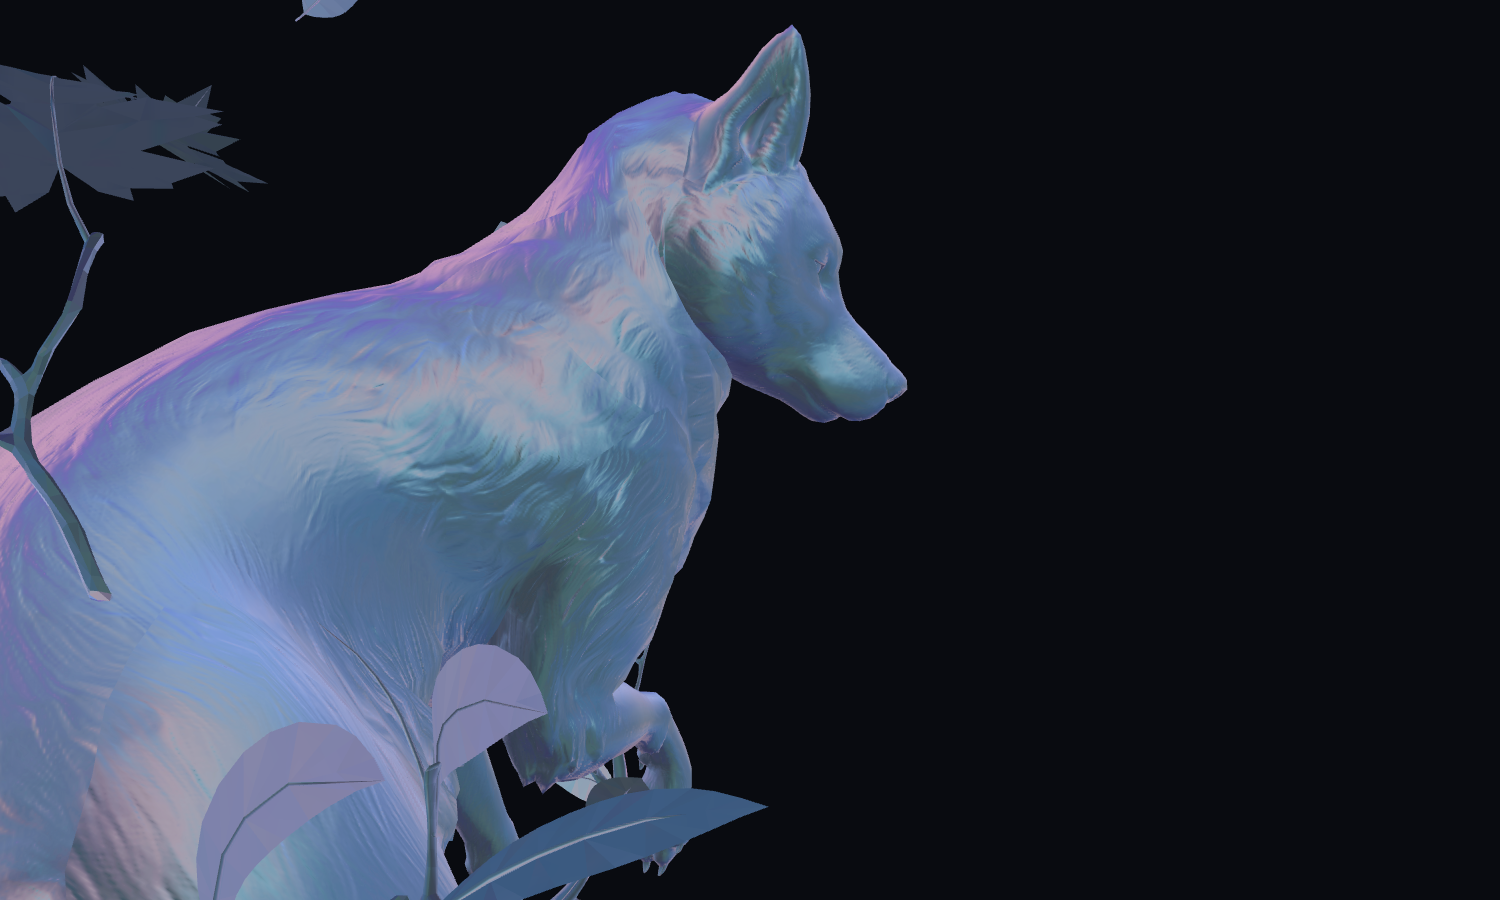
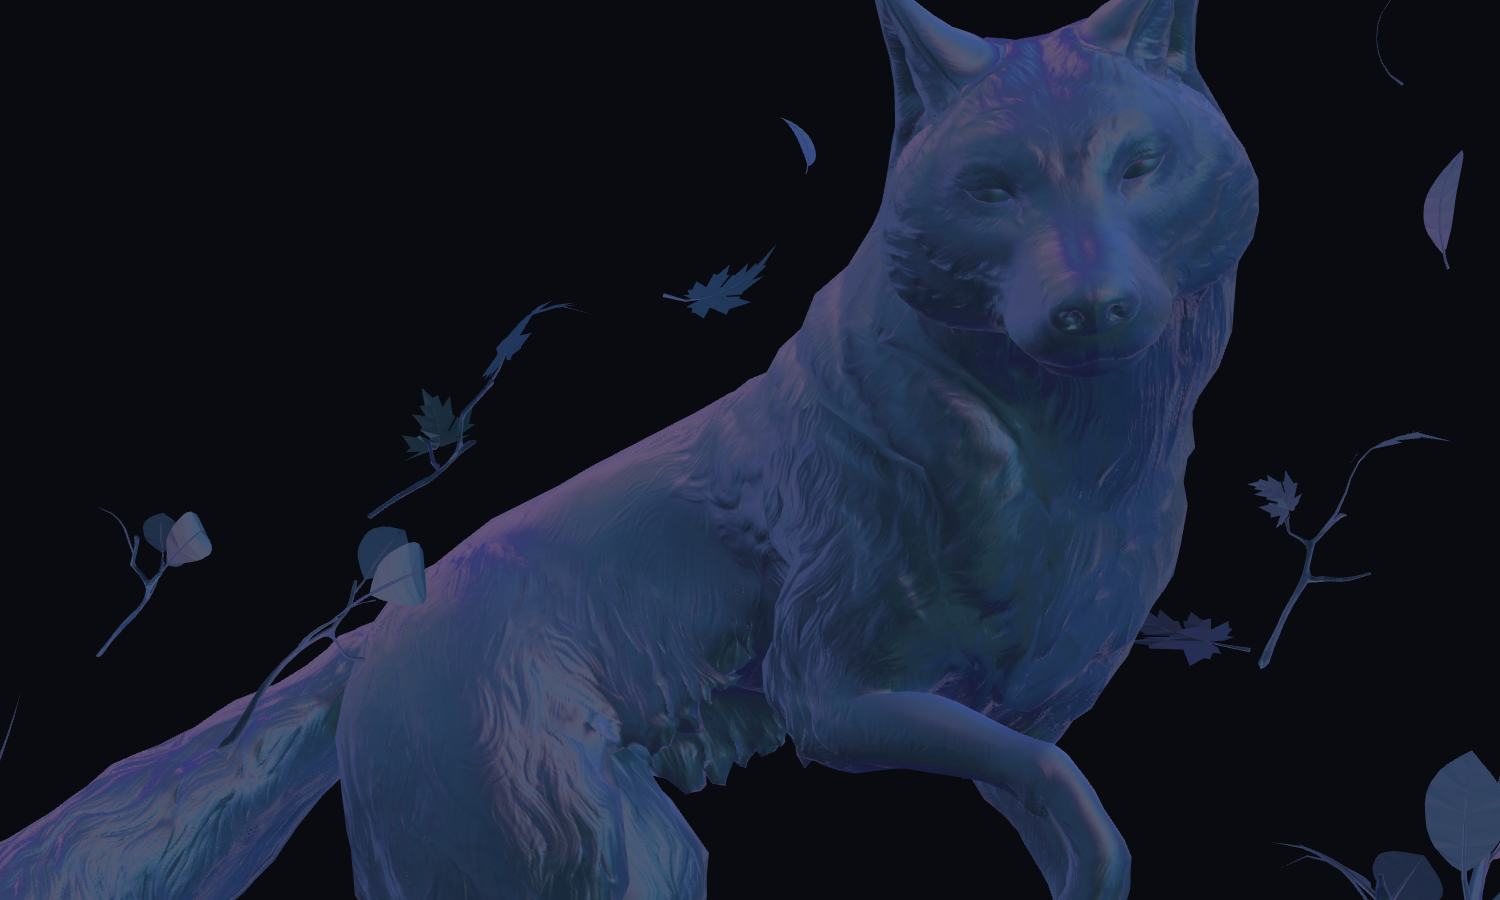
fix(ps-008): calibrate exact eye-level wolf rotation, framing, and matcap lighting

diff --git a/plans/ps-008-creative-webgl/step1-3d-core/standalone-dog.html b/plans/ps-008-creative-webgl/step1-3d-core/standalone-dog.html
@@ -2,7 +2,7 @@
 <html lang="en">
 <head>
   <meta charset="UTF-8">
-  <title>Dogstudio 3D Core - Step 1 Ground Truth Rebuild</title>
+  <title>Dogstudio 3D Core - Step 1 Ground Truth (Exact Pose & Lighting Matched)</title>
   <style>
     body {
       margin: 0;
@@ -43,11 +43,14 @@
 
       const scene = new THREE.Scene();
 
-      // Camera: exact FOV 60
-      const camera = new THREE.PerspectiveCamera(60, width / height, 1, 50);
-      camera.position.set(0, 0, 10);
+      // Camera: exact match framing
+      const camera = new THREE.PerspectiveCamera(35, width / height, 0.01, 1000);
+      camera.position.set(0.2, 1.6, 22.0);
       scene.add(camera);
-      camera.lookAt(new THREE.Vector3(0, 0, 0));
+
+      // Target head center
+      const target = new THREE.Vector3(1.1, 1.8, 0);
+      camera.lookAt(target);
 
       const textureLoader = new THREE.TextureLoader();
       const loadTex = (url) => {
@@ -70,6 +73,7 @@
       await new Promise(r => { img.onload = r; });
       const cellW = img.width / 10;
       const cellH = img.height / 2;
+      // Index 1: row 0, col 1
       mctx.drawImage(img, cellW * 1, 0, cellW, cellH, 0, 0, 256, 256);
       const singleMatcapTex = new THREE.CanvasTexture(matcapCanvas);
 
@@ -96,7 +100,8 @@
             child.material = new THREE.MeshMatcapMaterial({
               matcap: singleMatcapTex,
               normalMap: isLeaf ? branchesNormals : dogNormals,
-              normalScale: new THREE.Vector2(0.35, 0.35),
+              normalScale: new THREE.Vector2(0.55, 0.55),
+              color: new THREE.Color(0x3a4866), // Tint dark navy blue to match Dogstudio mood lighting!
               skinning: !!child.isSkinnedMesh
             });
           }
@@ -104,10 +109,10 @@
 
         dogContainer.add(model);
 
-        // Frame the wolf head in center-right
-        dogContainer.position.set(-0.5, -2.2, 0);
-        dogContainer.rotation.y = 2.45; // ~140 degrees (Head faces viewer & left)
-        dogContainer.rotation.x = 0.05;
+        // Turn dog body so head looks towards viewer (slight left angle)
+        dogContainer.rotation.y = 0.62; // ~35 degrees
+        dogContainer.rotation.x = -0.15; // tilt head up towards viewer
+        dogContainer.position.set(0.0, -0.2, 0);
 
         if (gltf.animations && gltf.animations.length > 0) {
           mixer = new THREE.AnimationMixer(model);
